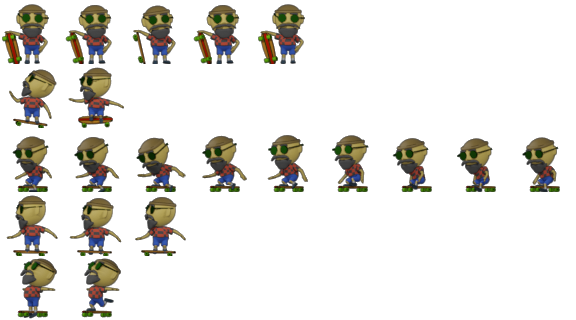
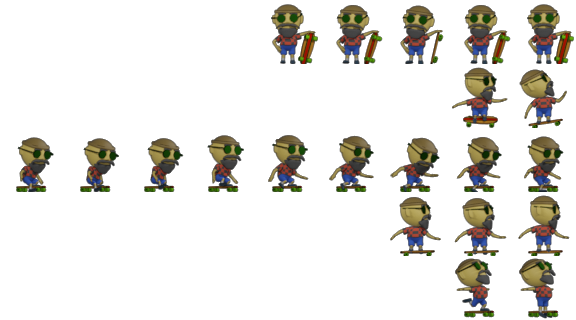
update
turn the skater !!!

Changed region(s): [[0.0, 0.0, 1.0, 1.0], [0.4688, 0.4062, 0.5312, 0.5938]]

diff --git a/js/class.js b/js/class.js
@@ -100,8 +100,17 @@ class Skater {
         this.state = false;
         this.hauteur = this.y- this.height;
         this.calcul = 22 * (gravity - this.elevation);
+        this.step = 8;
+        setInterval(() => {
+            this.step --;
+            if (this.step == 0) {
+                this.step = 8;
+            }
+        }, 80);
+
+
         this.draw = function(){
-            ctx.drawImage(image, 0,128,64,64, this.dx, this.dy, this.dwidth, this.dheight);
+            ctx.drawImage(image, 64 * this.step,128,64,64, this.dx, this.dy, this.dwidth, this.dheight);
         };
         this.jump = function(){ 
                 this.dy -= this.calcul ;

diff --git a/js/functions/background_functions.js b/js/functions/background_functions.js
@@ -2,7 +2,7 @@ function drawBackground(image, index, speed){
     
     
     // background first part 
-    ctx.drawImage(image, 0, 1500, 8584, 4500, -((index * (speed / 2)) % 8584) + 8582, 0,8584, 4500);
+    ctx.drawImage(image, 0, 1500, 8584, 4500, -((index * (speed / 2)) % 8584) + 8584, 0,8584, 4500);
     // background second part
     ctx.drawImage(image, 0, 1500, 8584, 4500, -(index * (speed / 2)) % 8584, 0, 8584, 4500);
 

diff --git a/js/functions/money_functions.js b/js/functions/money_functions.js
@@ -8,7 +8,7 @@ imageCoin.src = 'assets/img/coin.png';
 setInterval(() => {
     let money = new Money(imageCoin);
     treasure.push(money);            
-}, 100);
+}, 1000);
 
 
 function drawCoins(gain) {
